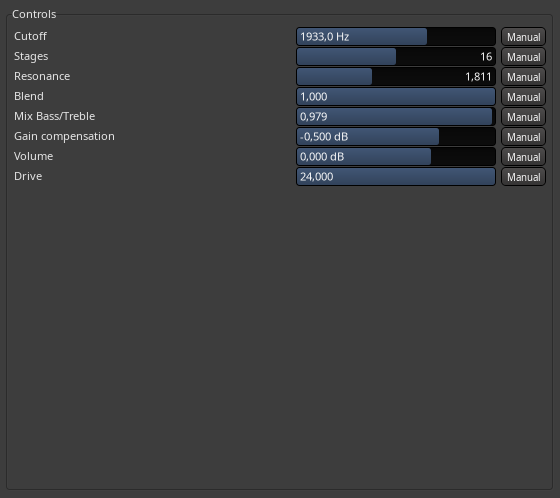
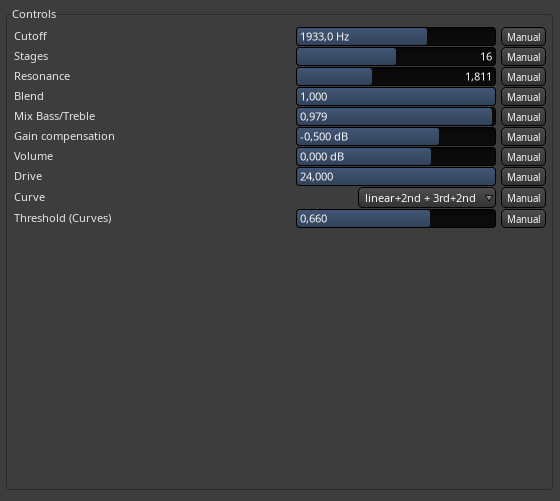
Update README and screenshot.

diff --git a/README.md b/README.md
@@ -32,7 +32,7 @@ Details
 
 ![](docs/mnamp-controls-cropped.png)
 
-Screenshot of the controls as shown in the Ardour DAW (does not show the Curve and Threshold parameters yet!).
+Screenshot of the controls as shown in the Ardour DAW.
 
 
   * Drive.
